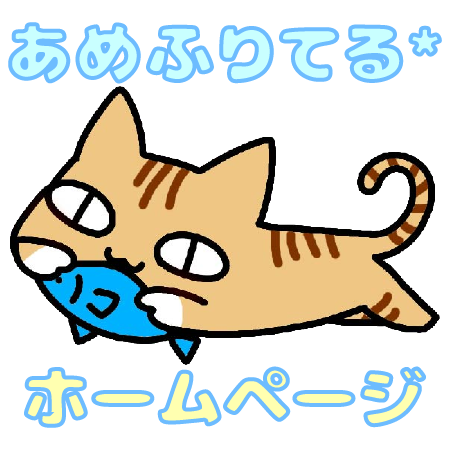
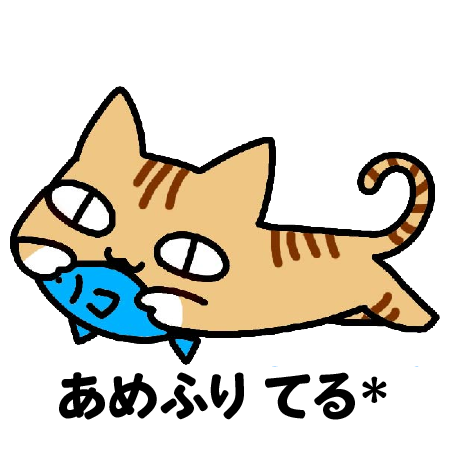
テストを兼ねてサムネを変更

Changed region(s): [[0.0, 0.0311, 0.9956, 0.1867], [0.0311, 0.8089, 0.9644, 0.9644]]

diff --git a/index.html b/index.html
@@ -8,9 +8,9 @@
         <meta property="og:title" content="Topページ">
         <meta property="og:type" content="website">
         <meta property="og:description" content="あめふりてる*のホームページです。">
-        <meta property="og:url" content="https://amefuritell.github.io/amayadori/">
+        <meta property="og:url" content="">
         <meta property="og:site_name" content="あめふりてるのホームページ">
-        <meta property="og:image" content="https://amefuritell.github.io/amayadori/Img/thumbnail.png">
+        <meta property="og:image" content="Img/thumbnail.png">
         
         <link rel="icon" href="Img/icon.png">
         <title>あめふりてるのホームページ | TOP</title>
